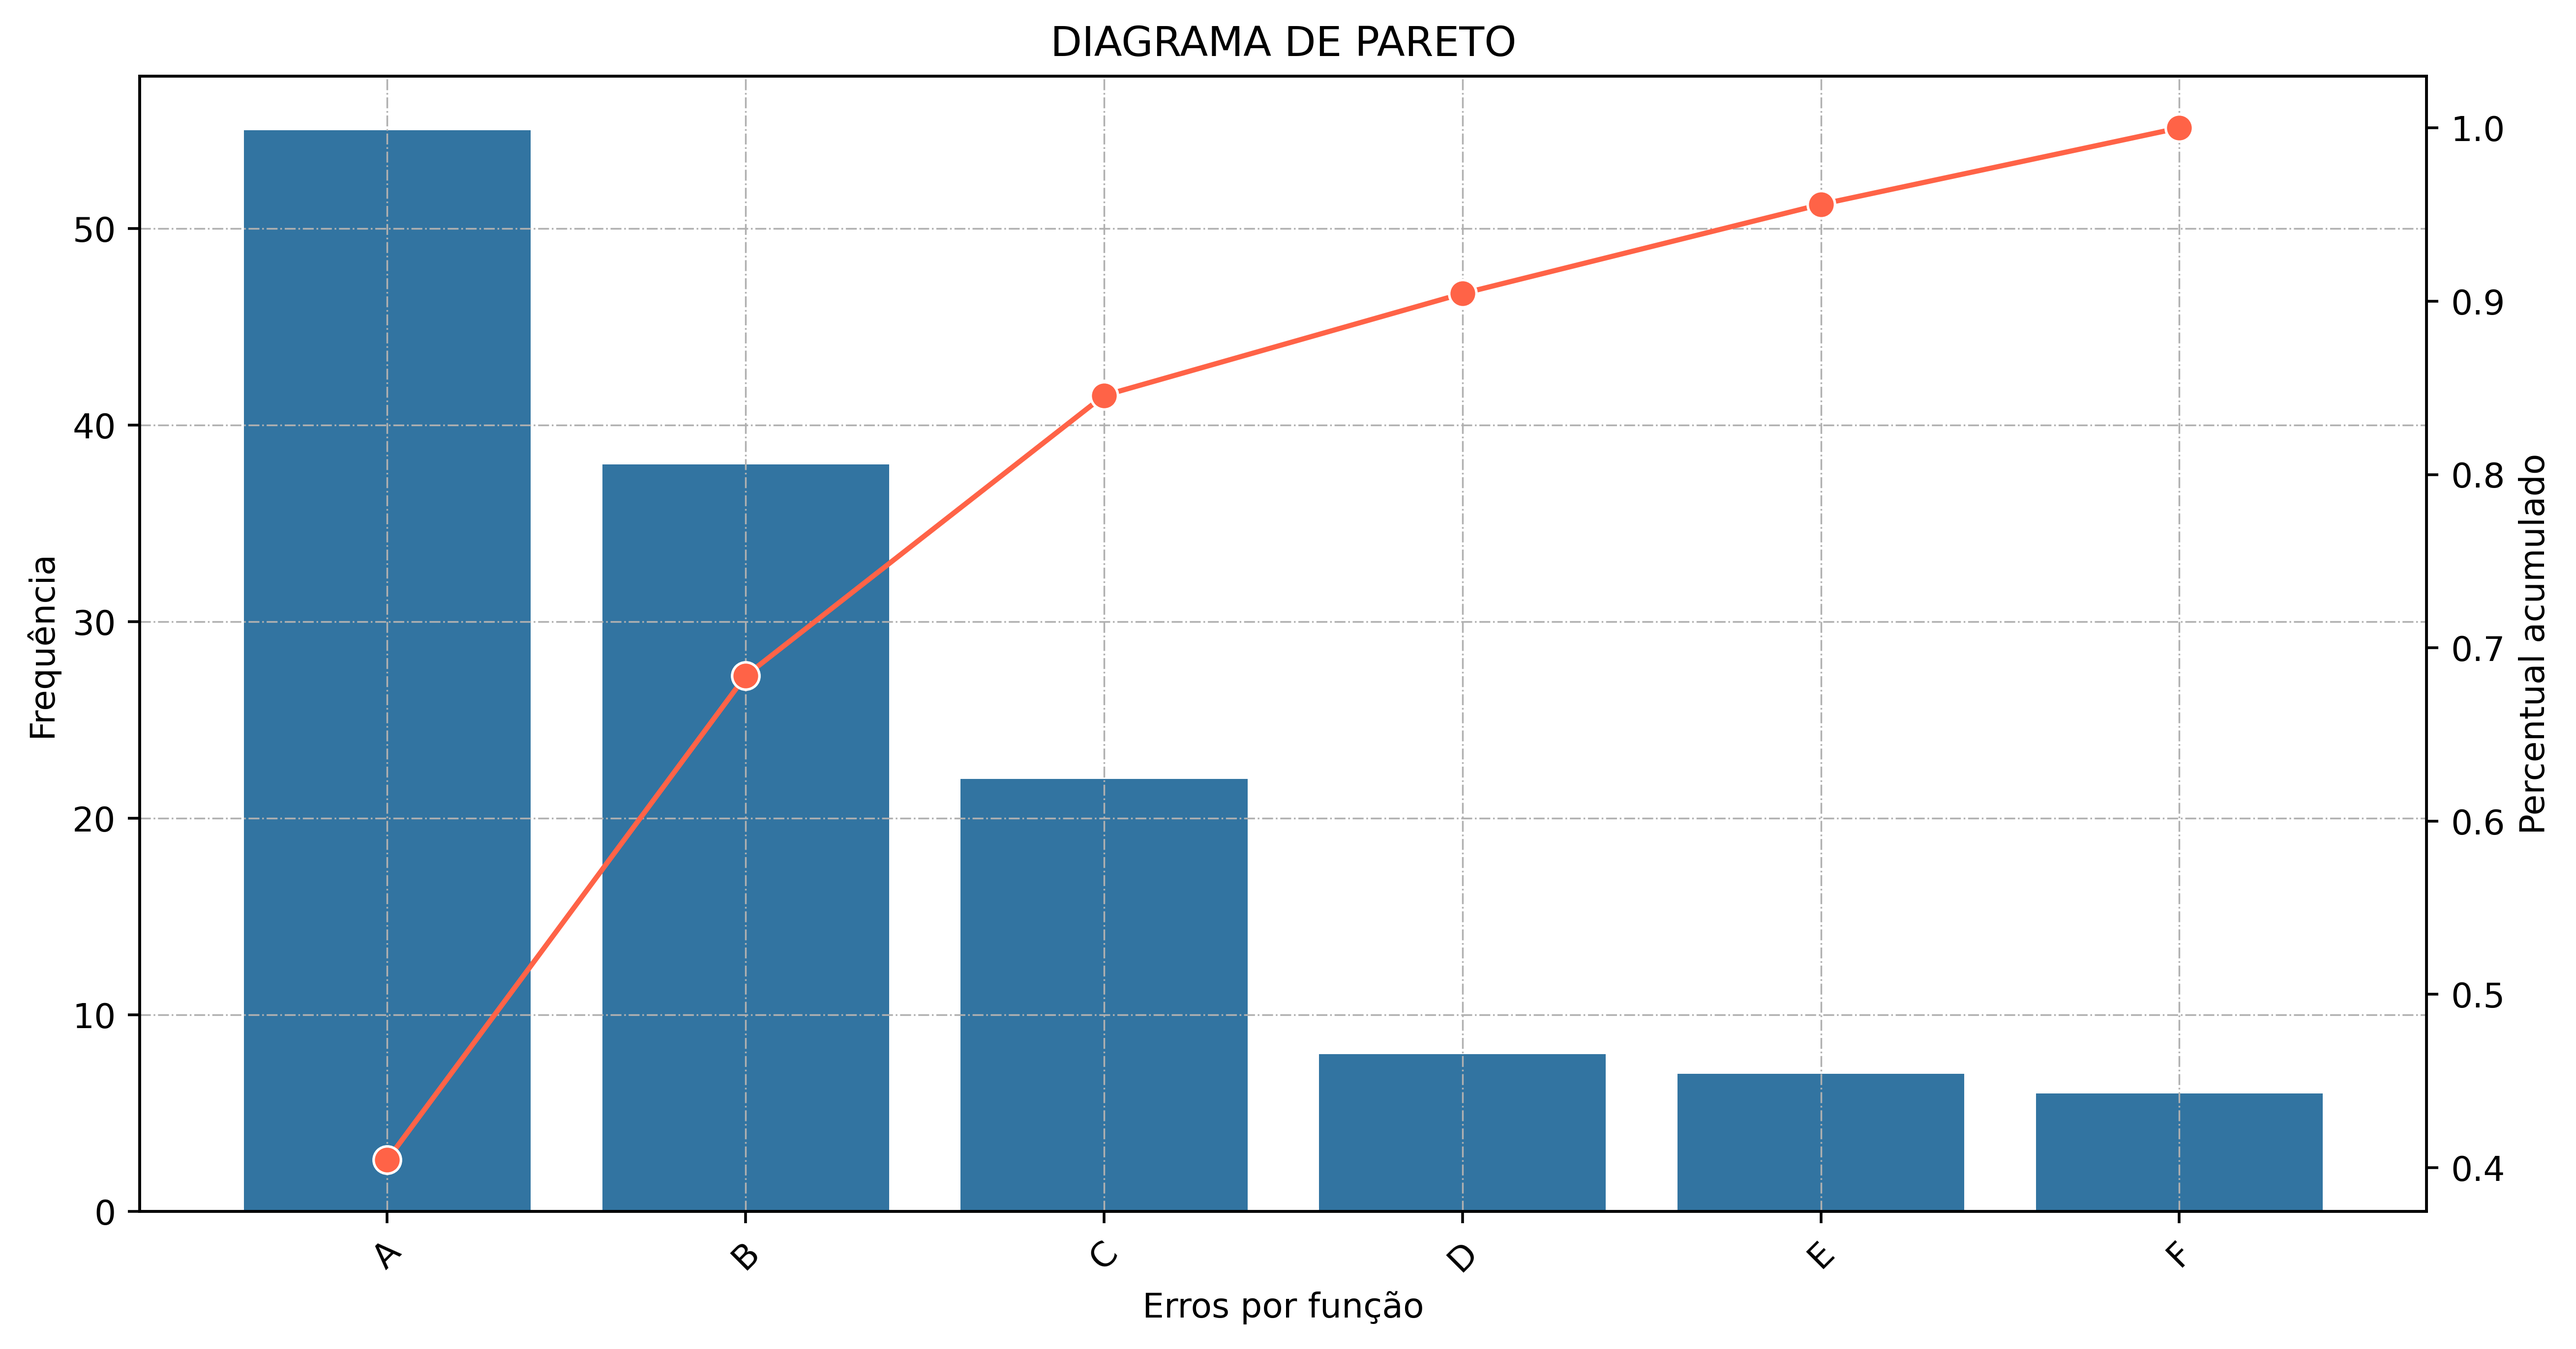
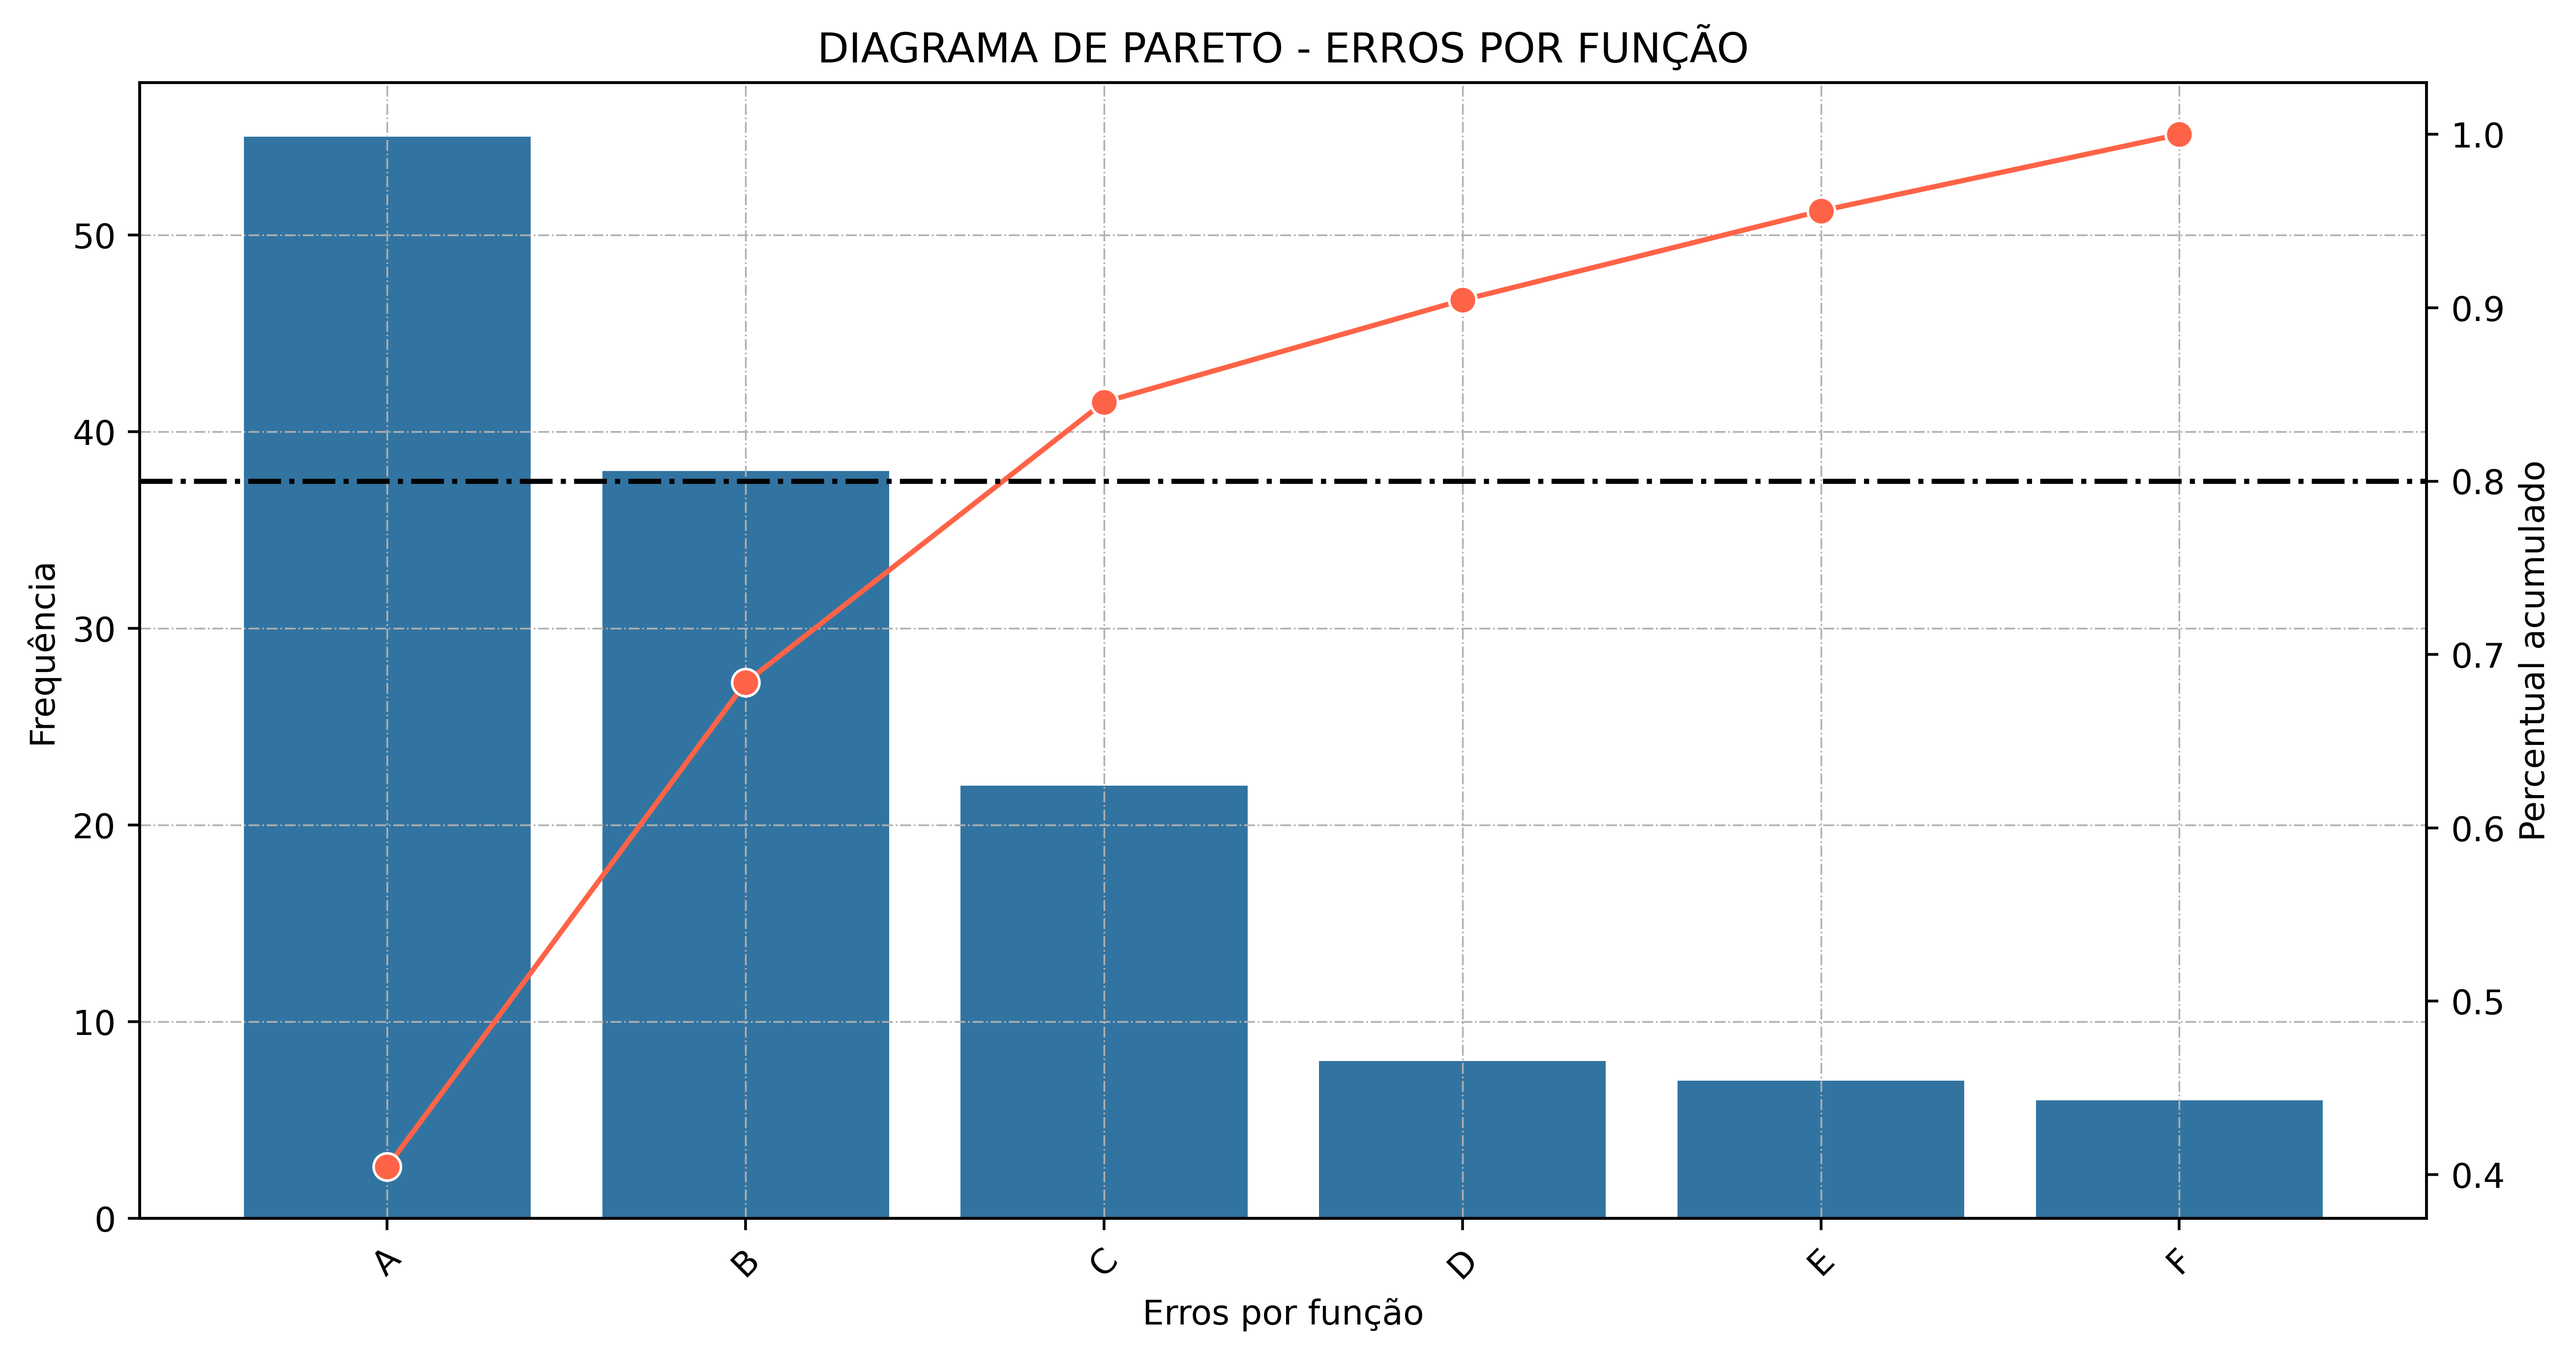
full update

diff --git a/pareto.py b/pareto.py
@@ -1,3 +1,5 @@
+# -*- coding: utf-8 -*-
+
 import pandas as pd
 import matplotlib.pyplot as plt
 import seaborn as sns
@@ -40,8 +42,11 @@ class Pareto:
         Retorna:
             pd.DataFrame: Tabela contendo os itens, frequências, percentual e percentual acumulado.
         """
+
+        label = self.get_text(text=self.label)
+
         data = pd.DataFrame(
-            {self.label: self.item, 'frequencia': self.frequencia}
+            {label: self.item, 'frequencia': self.frequencia}
         )
 
         data.sort_values('frequencia', ascending=False, inplace=True)
@@ -67,23 +72,39 @@ class Pareto:
         """
         return list(self.tabela()['precentual_cum'])
 
-    def get_text(self, title) -> str:
+    def get_text(self, text) -> str:
         """
         Gera o nome do arquivo de imagem para o diagrama.
 
         Args:
-            title (str): Título do diagrama.
+            text (str): Título da tabela.
 
         Retorna:
             str: Nome do arquivo de imagem.
         """
-        title = title.replace(' ', '_')
-        return f'{title}.png'
+        return text.replace(' ', '_')
+
+
+    
+    def title_graph(self, text) -> str:
+        """
+        Gera o nome do arquivo de imagem para o diagrama.
+
+        Args:
+            text (str): Título gráfico do diagrama.
+
+        Retorna:
+            str: Nome do arquivo de imagem.
+        """
+        text = text.replace(' ', '_')
+        return f'{text}.png'
 
     def plot(
         self,
         title: str = 'Diagrama de Pareto',
         figsize: tuple = (12, 6),
+        xlabel:str = None,
+        hline:bool =False,
         save: bool = False,
     ) -> None:
         """
@@ -92,20 +113,23 @@ class Pareto:
         Args:
             title (str, opcional): Título do diagrama. Padrão: "Diagrama de Pareto".
             figsize (tuple, opcional): Tamanho da figura em polegadas. Padrão: (12, 6).
+            hline (bool) Linha dos 80 procentos Padrão:False,
+            xlabel (str) Texto do exio x do gráfico Padrão: None
             save (bool, opcional): Indica se o diagrama deve ser salvo em um arquivo. Padrão: False.
         """
 
         data = self.tabela()
+        xlabel_ = self.get_text(self.label)
 
         fig, ax1 = plt.subplots(figsize=figsize)
 
-        sns.barplot(data=data, x=self.label, y='frequencia', ax=ax1)
+        sns.barplot(data=data, x=xlabel_, y='frequencia', ax=ax1)
 
         ax2 = ax1.twinx()
 
         sns.lineplot(
             data=data,
-            x=self.label,
+            x=xlabel_,
             y='precentual_cum',
             color='tomato',
             marker='o',
@@ -113,6 +137,7 @@ class Pareto:
             ax=ax2,
         )
         ax1.set_ylabel('Frequência')
+        
         ax2.set_ylabel('Percentual acumulado')
         plt.title(title.upper())
 
@@ -120,12 +145,22 @@ class Pareto:
 
         [tick.set_rotation(45) for tick in ax1.get_xticklabels()]
 
+        if  not xlabel: 
+            ax1.set_xlabel(self.label)
+        else:
+             ax1.set_xlabel(xlabel)
+
+        if hline:
+            plt.axhline(0.8, c='k', ls='-.', linewidth=1.5)
+
         if save:
             plt.savefig(
-                self.get_text(title=title),
+                self.title_graph(text=title),
                 format='png',
                 dpi=500,
                 bbox_inches='tight',
             )
 
-        plt.show()
+
+
+        return plt.show()

diff --git a/main.py b/main.py
@@ -1,19 +1,25 @@
+# -*- coding: utf-8 -*-
+
 from pareto import Pareto
 
 
 item = ['A', 'B', 'C', 'D', 'E', 'F']
 frequencia = [55, 38, 22, 8, 7, 6]
-label = 'Erros por função'
+label = 'Erros por funcao'
 
 prt = Pareto(item=item, frequencia=frequencia, label=label)
 
 tabela = prt.tabela()
 
-print(tabela)
-print()
+print('\n')
+print(prt.__str__())
+print('\n')
 print(f'Percentual = {prt.Percentual()}')
 print(f'Percentual Acumulado = {prt.Percentual_Acumulado()}')
+print('\n')
+print(tabela)
+print('\n')
 
-print()
-print(prt.__str__())
-prt.plot(save=True)
+prt.plot(save=True,
+         title="Diagrama de Pareto - Erros por função", 
+         hline=True)
